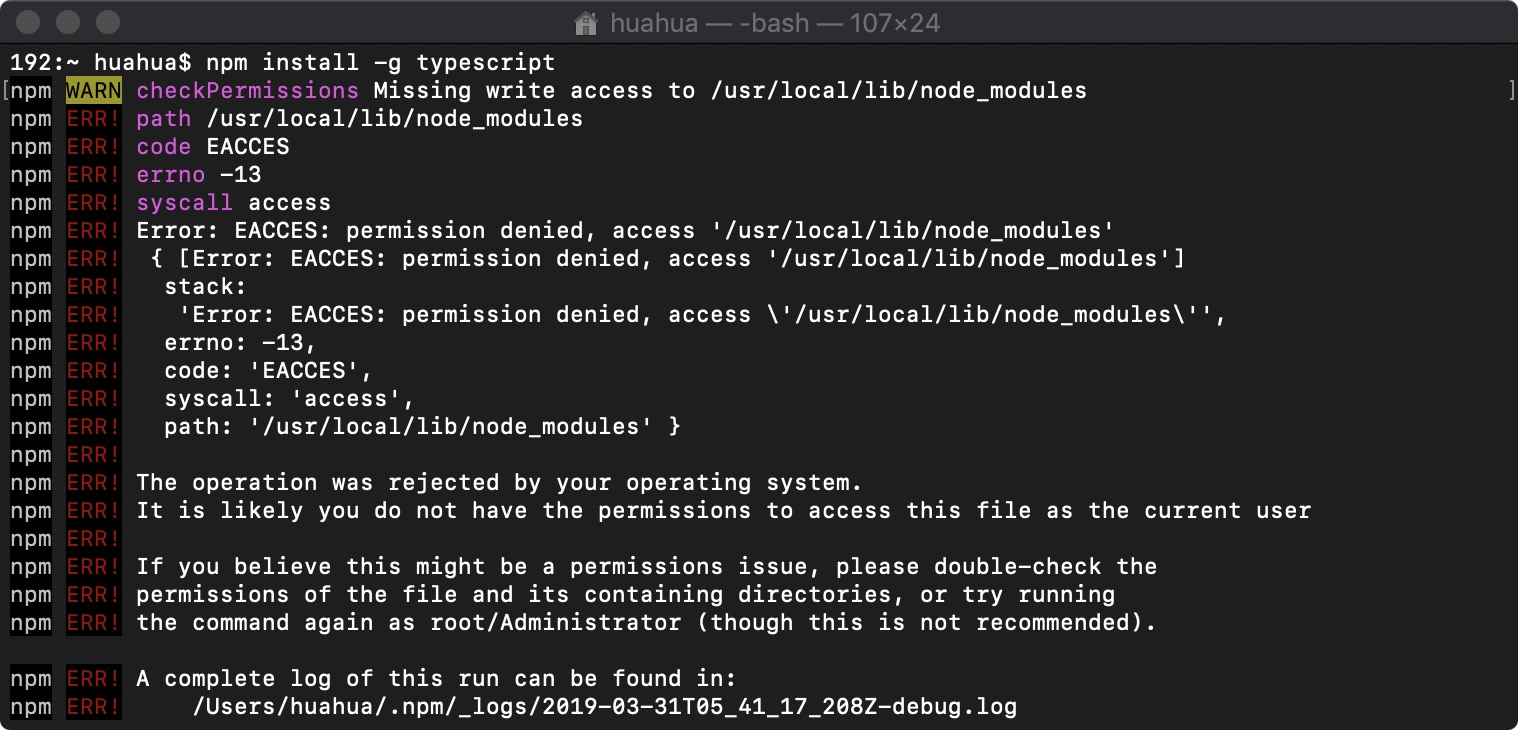
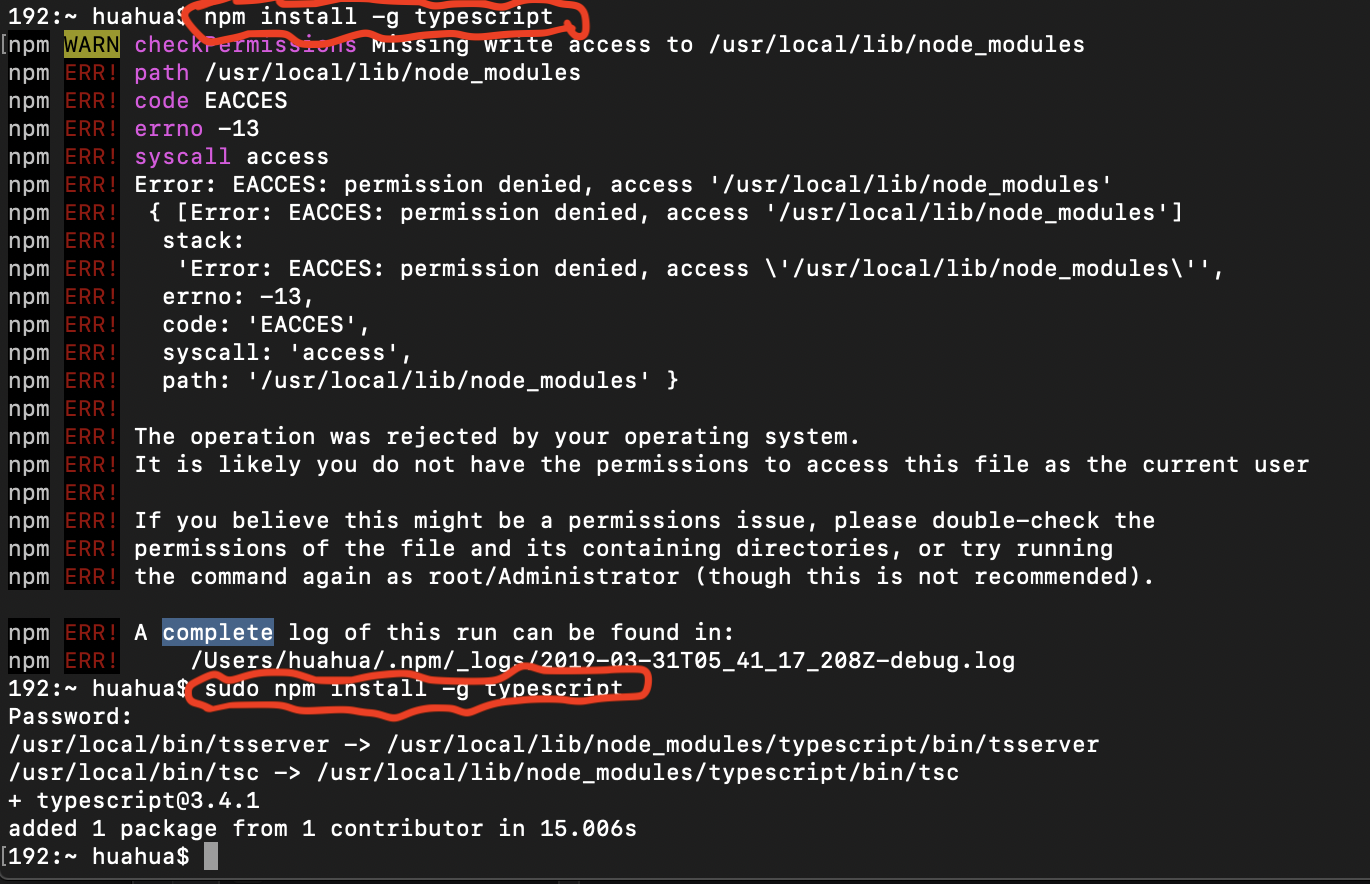
ts

Changed region(s): [[0.0, 0.0, 0.9504, 1.0], [0.981, 0.9945, 1.0, 1.0], [0.981, 0.0, 1.0, 0.0301]]

diff --git a/typescript/typescript.md b/typescript/typescript.md
@@ -1,6 +1,7 @@
 > 安装typescript
 1.在命令行中输入以下命令：npm install -g typescript
-2.如果在安装过程中出现以下错误  
+2.如果在安装过程中出现以下错误,是因为权限不足导致的。可以通过在命令前面添加sudo进行解决：sudo npm install -g typescript
 <div align="center">
-    <img src="https://github.com/dinghuahua/blog/blob/master/git-study/images/git11.png" width="40%">
+    <img src="https://github.com/dinghuahua/blog/blob/feature1/typescript/images/ts1.png" width="40%">
 </div>
+可以参考如下连接进行解决https://www.cnblogs.com/zhenqichai/p/npm-eacces-permission-error-fix.html
